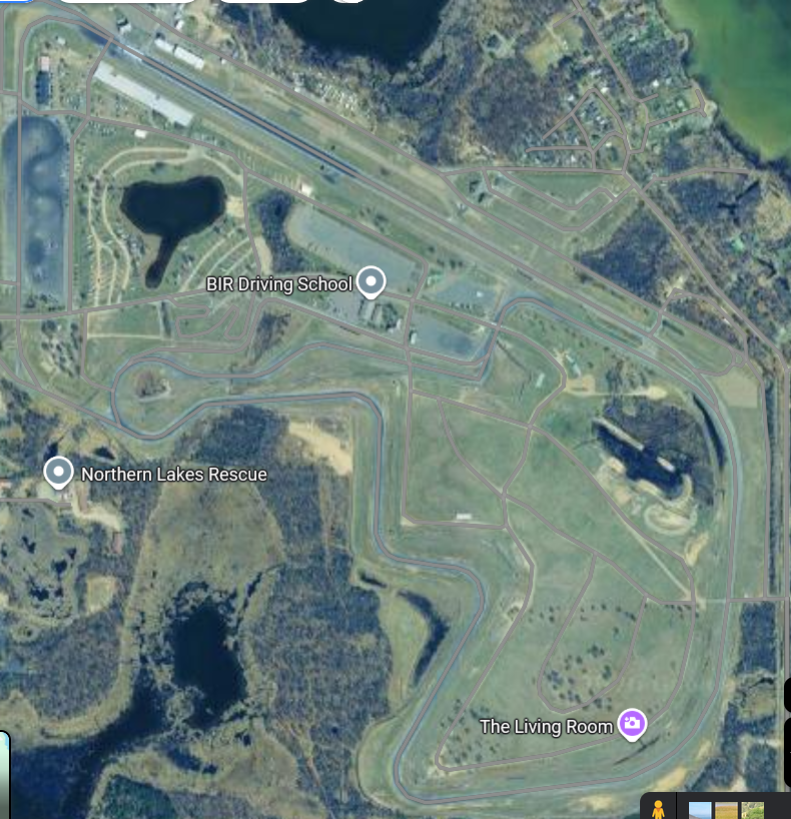
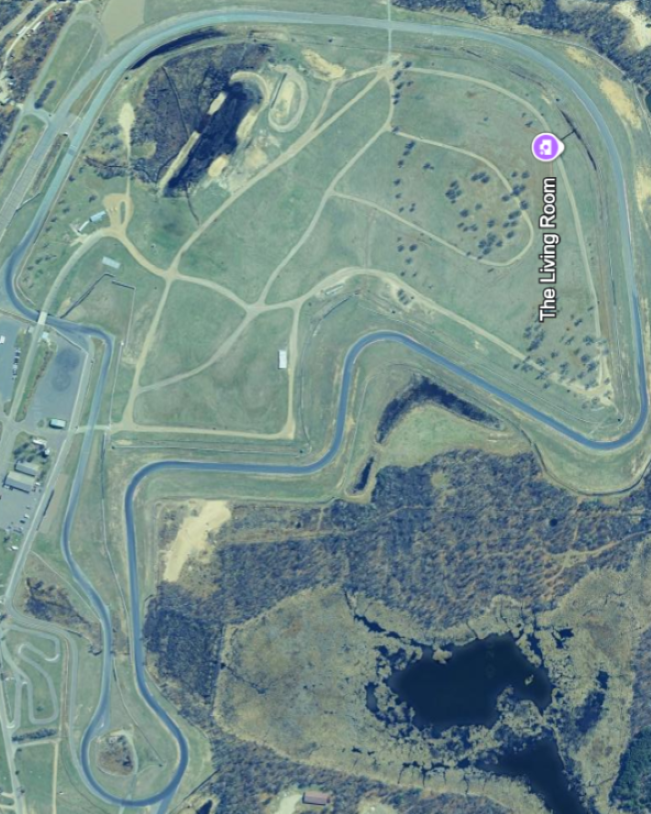
got better map size

diff --git a/Telemetry/Pit/Graph.py b/Telemetry/Pit/Graph.py
@@ -10,6 +10,8 @@ from matplotlib.animation import FuncAnimation
 from matplotlib.lines import Line2D
 from matplotlib.axes import Axes
 import tkinter as tk
+
+FIGSIZE = (300,800,"px") # width, height, pixels ("px")
 class Graph:
 
     def __init__(self, input: GraphDataInterface, container, root: tk.Tk, max_xlen: int) -> None:
@@ -34,7 +36,7 @@ class Graph:
 
     def start(self):
         """Create the graph"""
-        fig = Figure() #figsize (,) in inches; dpi dots/inch
+        fig = Figure(FIGSIZE) #figsize (,) in inches; dpi dots/inch
         self.ax = fig.add_subplot()
         self.line, = self.ax.plot(self.input.getData())
         self.ax.set_ylim(0,100)

diff --git a/Telemetry/Pit/Dashboard.py b/Telemetry/Pit/Dashboard.py
@@ -88,7 +88,7 @@ Graphs...
 For the non-speed over time graphs:
     store the last # entries. Use a ring buffer (?) or a deque
 """
-MAP_DIMENSIONS = (500,500)
+MAP_DIMENSIONS = (618,773)#(444,624)#(500,500)
 
 
 # SELECT CONSTANTS
